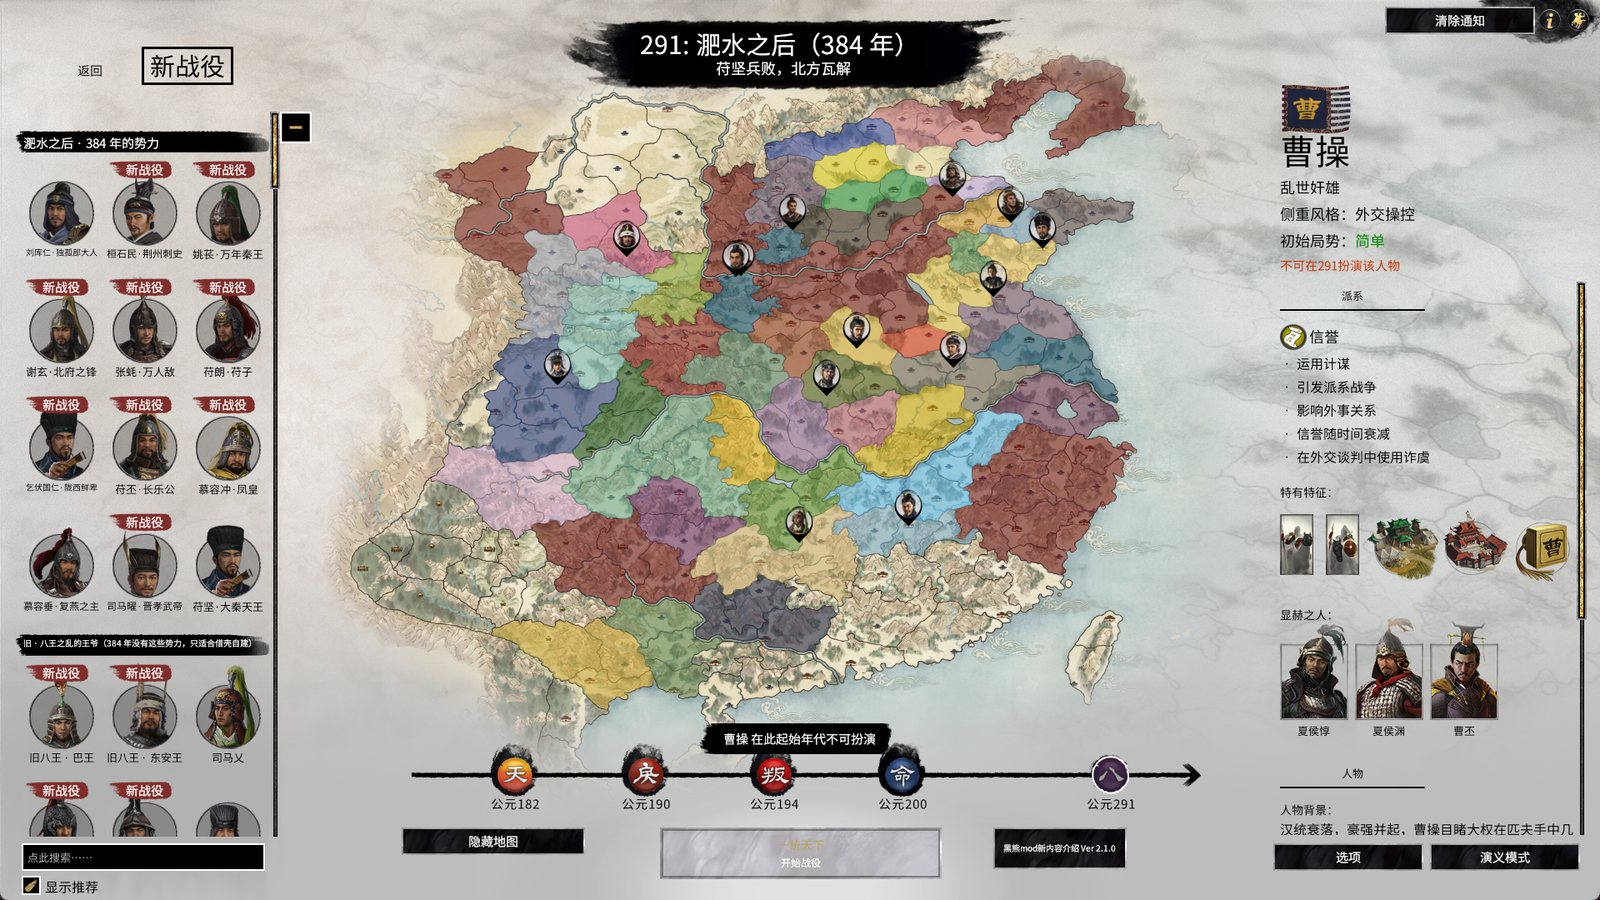
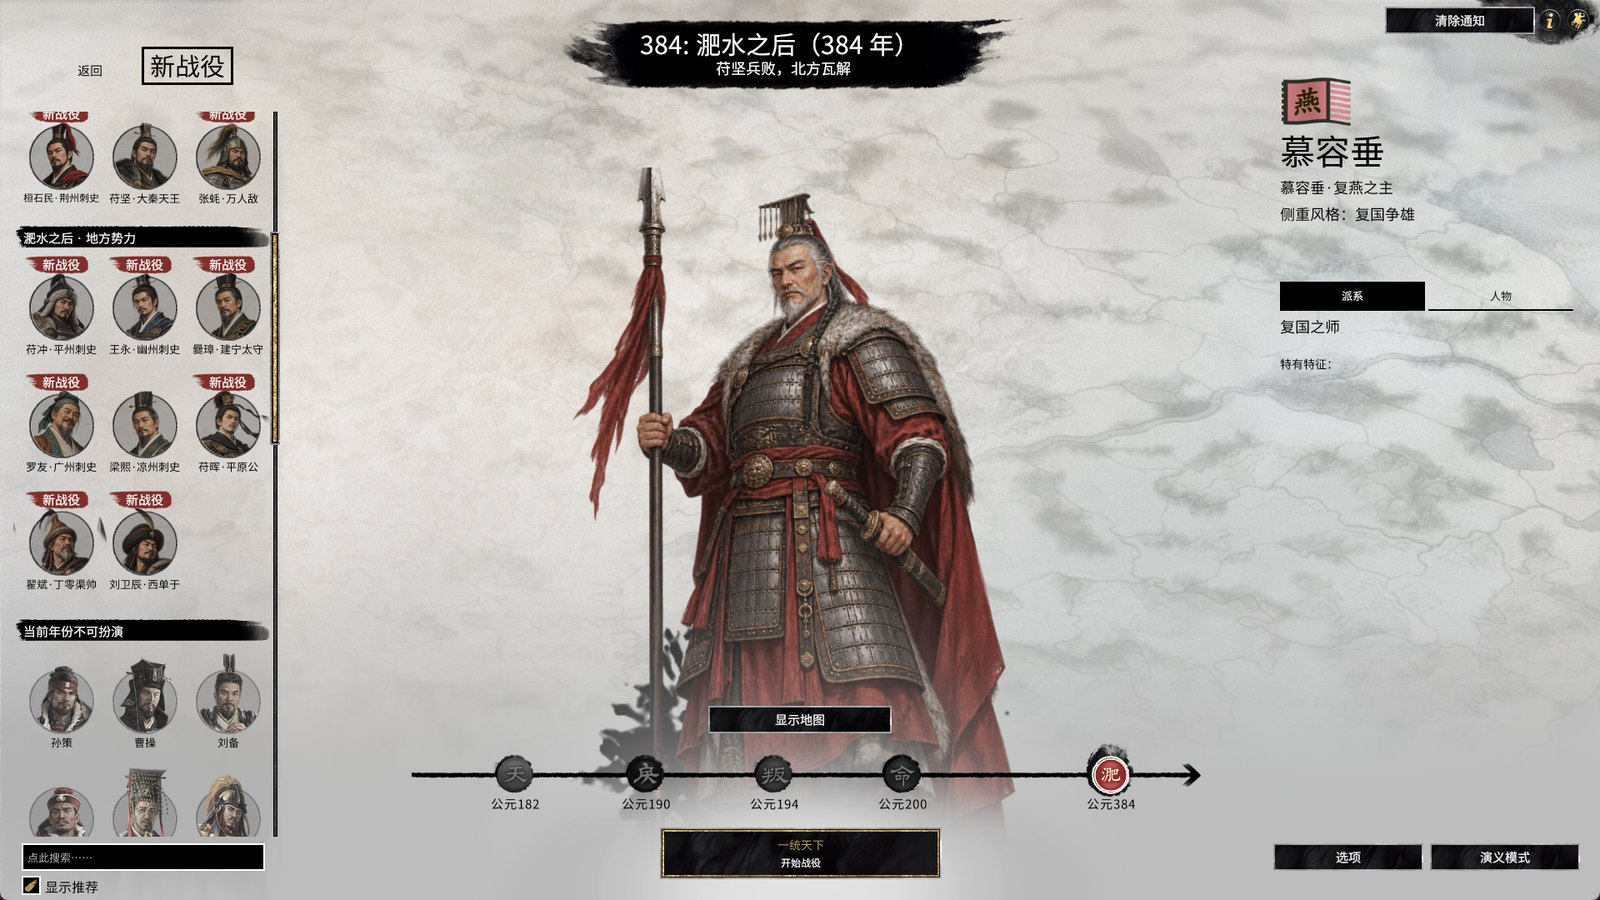
主页更新：20 家可选、开场十幕、选派系界面与地图截图、204 张立绘、零依赖；方法论补全 01–11 并加“新时代照着做的顺序”

diff --git a/全战三国/384/README.md b/全战三国/384/README.md
@@ -45,9 +45,13 @@
 
 - **一个新时代的大战役。** 选剧本界面上原来「291：八王之乱」的位置变成「**淝水之后（384 年）**」。新开一局，世界就是公元 384 年六月的样子：**22 个势力、204 位历史人物、两百多座城逐城按史实归属**。
 - **格局像 190 年，但更乱。** 北方权力真空，没有一家能速推：秦是一个四面起火的空架子，燕有二十万众却没有一座像样的都城，晋强而内耗，代、乞伏、铁弗、凉州各据一角。
-- **人人有脸，人人有数。** 204 人都有五维和天赋，其中 203 人已有自己的立绘（爨琚的正在画）；最顶尖的 24 位有外号、专属技能树和取自本人事迹的招牌武将技——投鞭断流、风声鹤唳、却月阵、髑髅台。
+- **人人有脸，人人有数。** 204 人都有自己的立绘、五维和天赋；最顶尖的 24 位有外号、专属技能树和取自本人事迹的招牌武将技——投鞭断流、风声鹤唳、却月阵、髑髅台。
 - **历史会自己走过来。** 吕光 385 年带着西征军和鸠摩罗什东归，拓跋珪 386 年登场接任代王，王镇恶、赫连勃勃、崔浩到岁数才出场，孙恩 399 年在会稽起事。
+- **20 家都能玩。** 选派系界面分两组：12 家主要势力，加上 8 家地方势力——凉州的梁熙、洛阳的苻晖、幽州的王永、平州的苻冲、丁零翟斌、铁弗刘卫辰、岭南的罗友、南中的爨氏。每家都有自己的“势”：攒点发动的三个主动能力。
+- **开场是一幅画、一首诗。** 80 秒开场十幕：淝水、长安、邺城、关中、荆楚、代北、朔方、三吴、京口，最后是北固楼上的“何处望神州”。
 - **190 年的三国原封不动。** 一切只发生在八王之乱这个剧本里，连名器改名都只在本剧本生效。
+
+<div align="center"><img src="images/intro_384.jpg" alt="开场动画（十幕选四）" width="100%"><br><sub>开场动画十幕选四：关中·慕容冲、姚苌 / 荆楚·桓玄 / 京口·刘裕 / 天下。背景为 AI 生成，人物是游戏里用的立绘。</sub></div>
 
 <div align="center"><img src="images/divider.png" alt="" width="70%"></div>
 
@@ -55,7 +59,7 @@
 
 ## 🎴 人物画廊
 
-200 个登场人物每人一张立绘（全身像，游戏里的人物面板、列表头像、官位卡都用它）。下面是其中十六位。
+204 个登场人物每人一张立绘（全身像，游戏里的人物面板、列表头像、官位卡都用它）。下面是其中十六位。
 
 <table>
 <tr>
@@ -112,12 +116,12 @@
 <td><img src="images/shot_vassal_call_to_arms.jpg" alt="苻丕请求宗主参战"><br><sub>秦的第一回合：邺城里的<b>长乐公苻丕</b>打着“长乐王”旗来<b>请求宗主参战</b>，对抗慕容垂——不救，附庸就独立。</sub></td>
 </tr>
 <tr>
-<td><img src="images/shot_faction_select.jpg" alt="选派系界面"><br><sub><b>选派系界面</b>：「淝水之后 · 384 年的势力」单独一组，十二家可选，头像下是“姓名·外号”。</sub></td>
-<td><img src="images/shot_map_flags.jpg" alt="战役地图上的字旗"><br><sub>战役地图上的<b>字旗</b>：慕容垂的「燕」、邺城一线苻丕的「長樂」。</sub></td>
+<td><img src="images/shot_faction_select.jpg" alt="选派系界面"><br><sub><b>选派系界面</b>分两组：「淝水之后 · 主要势力」12 家、「淝水之后 · 地方势力」8 家，头像下是“姓名·外号”或官职；只开这一个 Mod 就是这样。</sub></td>
+<td><img src="images/shot_select_map.jpg" alt="选派系界面的地图"><br><sub>点「显示地图」：选中慕容垂时，地图按 384 年的疆域和他的敌友上色，各家的图钉都在自己 384 年的都城。</sub></td>
 </tr>
 <tr>
+<td><img src="images/shot_map_flags.jpg" alt="战役地图上的字旗"><br><sub>战役地图上的<b>字旗</b>：慕容垂的「燕」、邺城一线苻丕的「長樂」。</sub></td>
 <td><img src="images/shot_war_declared.jpg" alt="苻坚对翟斌宣战"><br><sub><b>苻坚对翟斌宣战</b>：幽州的王永也来求援，宗主只好向丁零宣战。外交事件里用的都是各人自己的立绘。</sub></td>
-<td><img src="images/shot_faction_select_faces.jpg" alt="选派系界面：384 年的君主"><br><sub>自己的<b>开局存档</b>：选剧本界面是「公元 384」，列表头像、地图图钉、右上角的名字都是 384 年的君主和我们画的立绘。</sub></td>
 </tr>
 <tr>
 <td><img src="images/shot_jin_imperial_court.jpg" alt="晋的三公九卿"><br><sub>晋一开局就是<b>三公九卿</b>的皇宫府署（这张是按等级自动补满时的样子；现在按史实只封史书载明 384 年在任的四人：录尚书事谢安、司徒司马道子、尚书令谢石、中书令王献之，其余由玩家自己封）。</sub></td>
@@ -362,10 +366,10 @@ timeline
 | | 内容 |
 |---|---|
 | ✅ 已完成 | 22 个势力，逐城疆域，12 组附庸与 6 组开局战争 |
-| ✅ 已完成 | 204 位历史人物的五维、天赋、外号，**203 张立绘**（爨琚的在画） |
+| ✅ 已完成 | 204 位历史人物的五维、天赋、外号，**204 张立绘** |
 | ✅ 已完成 | 第一波 24 位名人的专属技能树与招牌武将技 |
 | ✅ 已完成 | 22 个派系特色、开局军资与军费平衡、开局封官 |
-| ✅ 已完成 | 吕光 385 年入场、孙恩 399 年起事、22 人按年登场 |
+| ✅ 已完成 | 吕光 385 年入场、孙恩 399 年起事、24 人按年登场 |
 | ✅ 已完成 | 17 个按族群与地域划分的随机姓名库（慕容、氐、羌、拓跋、河北、关中、江左……） |
 | ✅ 已完成 | 名人装备与 10 件名器改名；八王之乱的旧人物清场；选派系界面单独分组；20 面 384 年的字旗 |
 | ✅ 已完成 | 将领自带部曲、三将一军；史实夫妻开局成婚；按游戏实测的每回合亏空补偿开局金钱（均已在游戏内验证） |
@@ -374,11 +378,12 @@ timeline
 | ✅ 已完成 | 按政权性质起的官名（北方诸国、部族、都督府、天师道各一套）；晋开局即三公九卿，按史实只封四人（录尚书事谢安、司徒司马道子、尚书令谢石、中书令王献之） |
 | ✅ 已完成 | 开场动画与开局加载图换成 384 年的；开局不给城池“残破”（只有史书明载被屠的城才会，384 年没有），富庶的城有加成 |
 | ✅ 已完成 | 各势力的府署随等级加官（侯 4 位 → 公 6 位 → 王 10 位 → 天王 11 位 → 皇帝 14 位，三公称帝才有）；开场动画每张配一首诗 |
-| ✅ 已完成 | 12 家可选势力各有一套“势”：攒点发动的三个主动能力；选派系界面只有 384 年的 12 家（八王之乱原来的王爷不再出现） |
+| ✅ 已完成 | 20 家可选势力（12 家主要 + 8 家地方）各有一套“势”：攒点发动的三个主动能力；选派系界面分两组，只列 384 年的势力，地图图钉在 384 年的都城 |
+| ✅ 已完成 | 开场动画 80 秒十幕：每幕一张画、一位人物、一首诗 |
 | 🔧 进行中 | 叛军按地域分为五斗米道与流民坞帅（数据已改，还没在游戏里碰上叛乱验证） |
 | 🔧 进行中 | 数值与经济平衡 |
 | 📝 还没做 | 其余 180 人的专属技能树和武将技（目前用本职业的技能树） |
-| 📝 还没做 | 打包发布（立绘多，包体约 770 MB；发布方式未定） |
+| 📝 还没做 | 打包发布（立绘多，包体约 800 MB；发布方式未定） |
 
 <a id="compat"></a>
 
@@ -386,7 +391,7 @@ timeline
 
 - **需要《八王之乱》DLC。** 剧本做在八王之乱的战役上：借用它现成的“秦王”“燕王”“代王”等派系，带一份自己的开局存档（以游戏本体的为底：年份、谁能选、君主名字、胜利条件、晋的政体），新开局第 1 回合再由脚本布置人物和地盘。
 - **启用时占用「291：八王之乱」的位置**，选剧本界面上显示为「淝水之后（384 年）」。**190 年等其他剧本完全不受影响。**
-- **不依赖其他 Mod。** 只勾选这一个包实测过：可选的 20 家在选派系界面分两组——「淝水之后 · 主要势力」12 家、「淝水之后 · 地方势力」8 家，头像是我们画的立绘，开局、布置、封官都正常；和派系解锁类 Mod 一起开也只有一组 12 家。
+- **不依赖其他 Mod。** 只勾选这一个包实测过：可选的 20 家在选派系界面分两组——「淝水之后 · 主要势力」12 家、「淝水之后 · 地方势力」8 家，头像是我们画的立绘，开局、布置、封官都正常；和派系解锁类 Mod 一起开也不会重复。构建时逐条核对过：包里 8 万多处数据引用，没有一处要靠创意工坊上的其他 Mod。
 - **要开着 Steam 玩**：Steam 没开时游戏验证不了 DLC，八王之乱的所有势力都会上锁（「马上购买」），和本 Mod 无关。
 - **和其他改八王之乱开局存档的 Mod 冲突**（比如 NewFactionsAddon：它的开局存档放在“电影类型”的包里，会压过我们的）。同时开的话，另有一个很小的电影类型包把我们的开局存档压回来；这类包不用勾选就会加载，所以装着它时八王之乱总是 384 年。
 - **需要新开一局**；文本目前只有简体中文。

diff --git a/全战三国/README.md b/全战三国/README.md
@@ -4,12 +4,12 @@
 
 | Mod | 简介 | 状态 |
 |---|---|---|
-| [**384 · 淝水之后**](384/README.md) | 十六国剧本：公元 384 年，淝水之战次年。21 个势力、200 位历史人物、逐城按史实划分的疆域，做在「八王之乱」战役上，190 年的三国不受影响 | 🚧 开发中，尚未发布 |
+| [**384 · 淝水之后**](384/README.md) | 十六国剧本：公元 384 年，淝水之战次年。22 个势力（20 家可选）、204 位历史人物、逐城按史实划分的疆域，做在「八王之乱」战役上，190 年的三国不受影响；不依赖其他 Mod | 🚧 开发中，尚未发布 |
 
 <a href="384/README.md"><img src="384/images/banner.jpg" alt="384 · 淝水之后" width="100%"></a>
 
 ---
 
-384 做完之后，我们把"怎么把一段历史做成一个时代剧本"这件事本身整理成了一套 [方法论](方法论/README.md)——不是 384 的内容，是流程：怎么筛人物、怎么配数值、怎么借派系壳、怎么画旗、怎么写脚本、怎么在真游戏里测。以后做别的时代会直接照这套走。
+384 做完之后，我们把"怎么把一段历史做成一个时代剧本"这件事本身整理成了一套 [方法论](方法论/README.md)——不是 384 的内容，是流程：怎么筛人物、怎么配数值、怎么借派系壳、怎么画旗、怎么写脚本、怎么在真游戏里测。以后做别的时代会直接照这套走（方法论开头有一份“新时代照着做的顺序”，十三步）。
 
 <sub>玩家自制的非商业 Mod，与 Creative Assembly、SEGA 没有任何关联。</sub>

diff --git a/README.md b/README.md
@@ -19,9 +19,9 @@
 
 **《全面战争：三国》十六国剧本** · 🚧 开发中，尚未发布
 
-淝水之战次年，前秦土崩，群雄并起。做在「八王之乱」战役上的公元 384 年大战役：21 个势力、200 位历史人物（人人有立绘、五维和天赋）、逐城按史实划分的疆域、吕光东归与孙恩起事。
+淝水之战次年，前秦土崩，群雄并起。做在「八王之乱」战役上的公元 384 年大战役：22 个势力（20 家可选）、204 位历史人物（人人有立绘、五维和天赋）、逐城按史实划分的疆域、吕光东归与孙恩起事、一画一诗的开场。不依赖任何其他 Mod。
 
-[展示页](全战三国/384/README.md) · [势力](全战三国/384/docs/factions.md) · [疆域](全战三国/384/docs/territory.md) · [人物](全战三国/384/docs/characters.md) · [事件](全战三国/384/docs/events.md)
+[展示页](全战三国/384/README.md) · [势力](全战三国/384/docs/factions.md) · [疆域](全战三国/384/docs/territory.md) · [人物](全战三国/384/docs/characters.md) · [事件](全战三国/384/docs/events.md) · [制作方法论](全战三国/方法论/README.md)
 
 </td>
 </tr>
